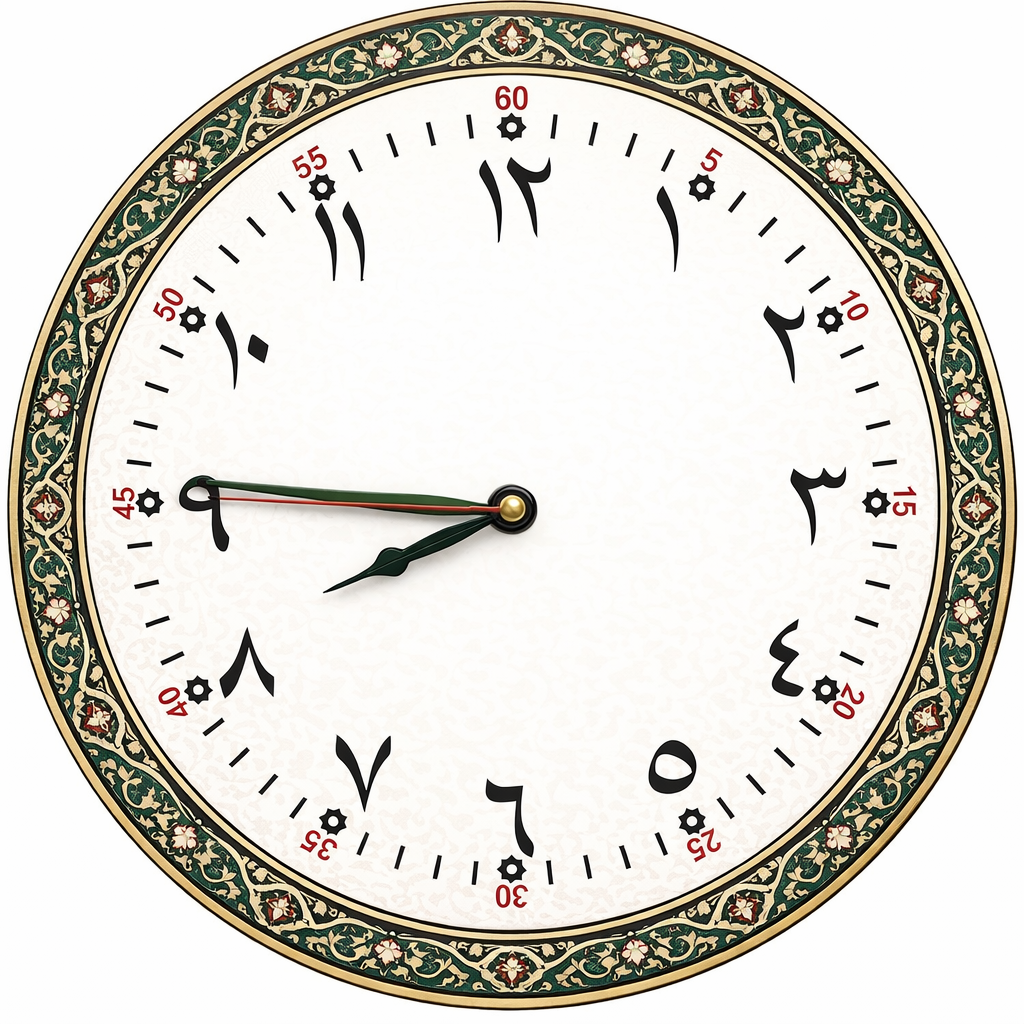
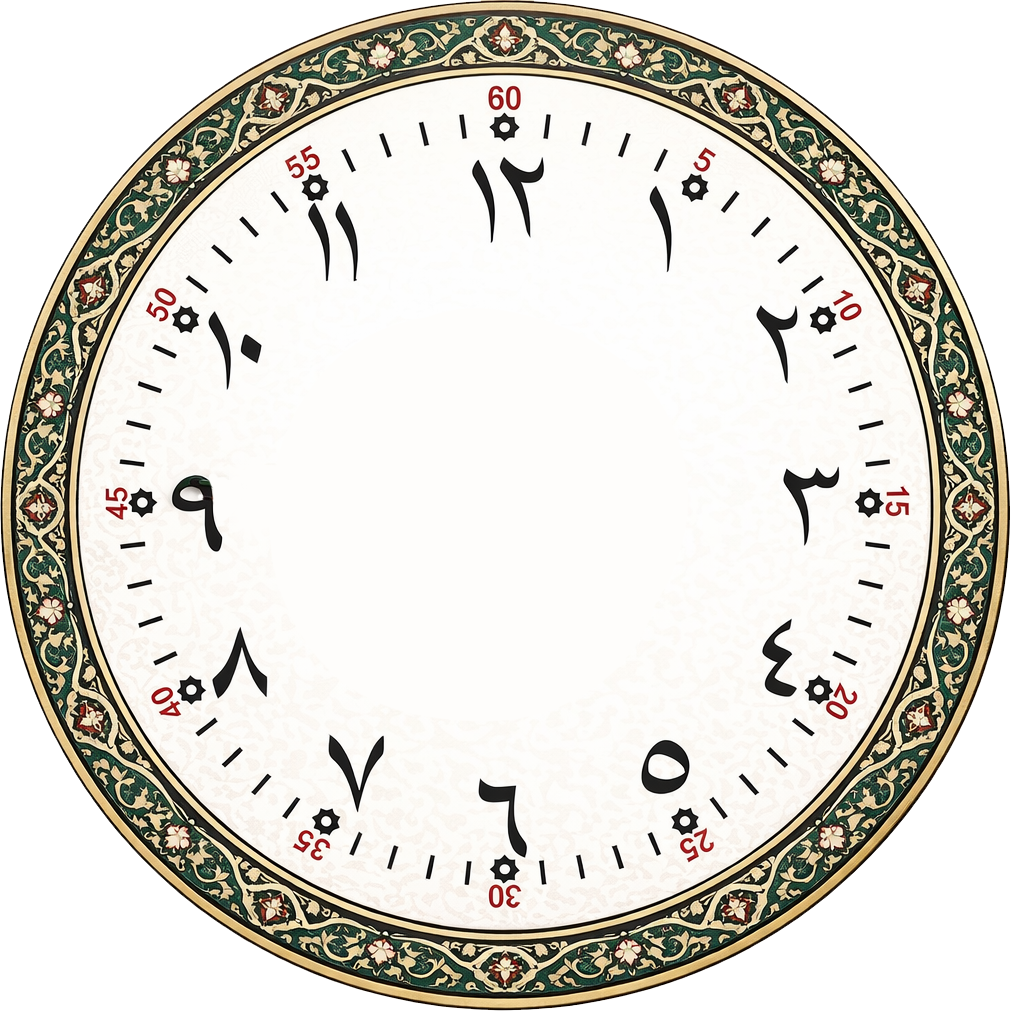
M

diff --git a/jam_dinding.html b/jam_dinding.html
@@ -169,35 +169,48 @@
       top: 50%;
       left: 50%;
       transform-origin: 0% 50%;
+      z-index: 5;
+      border-radius: 4px;
+      box-shadow: 0 0 4px rgba(0, 0, 0, 0.6);
     }
 
+    /* Jarum Jam */
     .hour {
-      width: 30%;
-      height: 6px;
-      background: #fff;
+      width: 28%;
+      height: 8px;
+      background: #111;
+      border-radius: 6px;
     }
 
+    /* Jarum Menit */
     .minute {
       width: 42%;
-      height: 4px;
-      background: #a6ffe0;
+      height: 5px;
+      background: #1f4f3a;
+      border-radius: 6px;
     }
 
+    /* Jarum Detik */
     .second {
-      width: 46%;
+      width: 48%;
       height: 2px;
-      background: #ff4d4d;
+      background: #b40000;
+      box-shadow: 0 0 6px rgba(255, 0, 0, 0.8);
     }
 
+    /* Titik Tengah */
     .center-dot {
       position: absolute;
-      width: 14px;
-      height: 14px;
-      background: #fff;
+      width: 16px;
+      height: 16px;
+      background: #000;
+      border: 3px solid #d4af37;
+      /* emas */
       border-radius: 50%;
       top: 50%;
       left: 50%;
       transform: translate(-50%, -50%);
+      z-index: 10;
     }
   </style>
 </head>
@@ -271,6 +284,54 @@
 
   <script src="assets/js/bootstrap.bundle.min.js"></script>
 
+  <!-- <script>
+    function getWIBDate() {
+      const parts = new Intl.DateTimeFormat('en-US', {
+        timeZone: 'Asia/Jakarta',
+        hour12: false,
+        hour: 'numeric',
+        minute: 'numeric',
+        second: 'numeric'
+      }).formatToParts(new Date());
+
+      const get = type => Number(parts.find(p => p.type === type).value);
+
+      const now = new Date();
+      now.setHours(get('hour'));
+      now.setMinutes(get('minute'));
+      now.setSeconds(get('second'));
+      now.setMilliseconds(new Date().getMilliseconds());
+
+      return now;
+    }
+
+    function updateWallClock() {
+      const now = getWIBDate();
+
+      const ms = now.getMilliseconds();
+      const seconds = now.getSeconds() + ms / 1000;
+      const minutes = now.getMinutes() + seconds / 60;
+      const hours = (now.getHours() % 12) + minutes / 60;
+
+      const secondDeg = seconds * 6 - 90;
+      const minuteDeg = minutes * 6 - 90;
+      const hourDeg = hours * 30 - 90;
+
+      document.getElementById('second').style.transform =
+        `rotate(${secondDeg}deg)`;
+
+      document.getElementById('minute').style.transform =
+        `rotate(${minuteDeg}deg)`;
+
+      document.getElementById('hour').style.transform =
+        `rotate(${hourDeg}deg)`;
+
+      requestAnimationFrame(updateWallClock);
+    }
+
+    requestAnimationFrame(updateWallClock);
+  </script> -->
+
   <script>
     function updateWallClock() {
       const now = new Date();
@@ -283,8 +344,7 @@
       const minuteDeg = (minute * 6 + second * 0.1) - 90;
       const hourDeg = ((hour % 12) * 30 + minute * 0.5) - 90;
 
-      document.getElementById('second').style.transform =
-        `rotate(${secondDeg}deg)`;
+      document.getElementById('second').style.transform = `rotate(${secondDeg}deg)`;
 
       document.getElementById('minute').style.transform =
         `rotate(${minuteDeg}deg)`;
@@ -295,6 +355,13 @@
 
     setInterval(updateWallClock, 1000);
     updateWallClock();
+
+    console.log(
+      new Intl.DateTimeFormat('id-ID', {
+        timeZone: 'Asia/Jakarta',
+        timeStyle: 'medium'
+      }).format(new Date())
+    );
   </script>
 
 </body>
